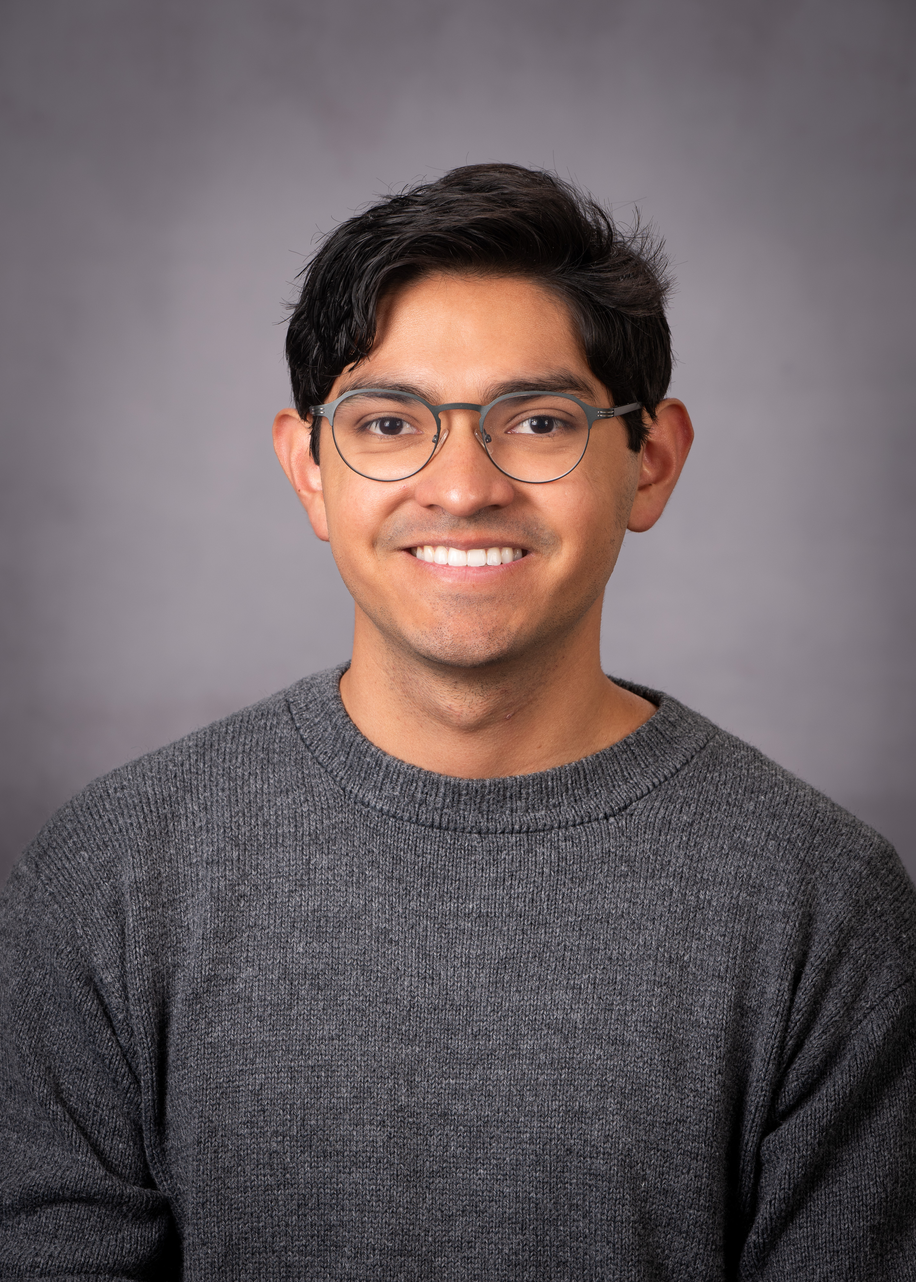
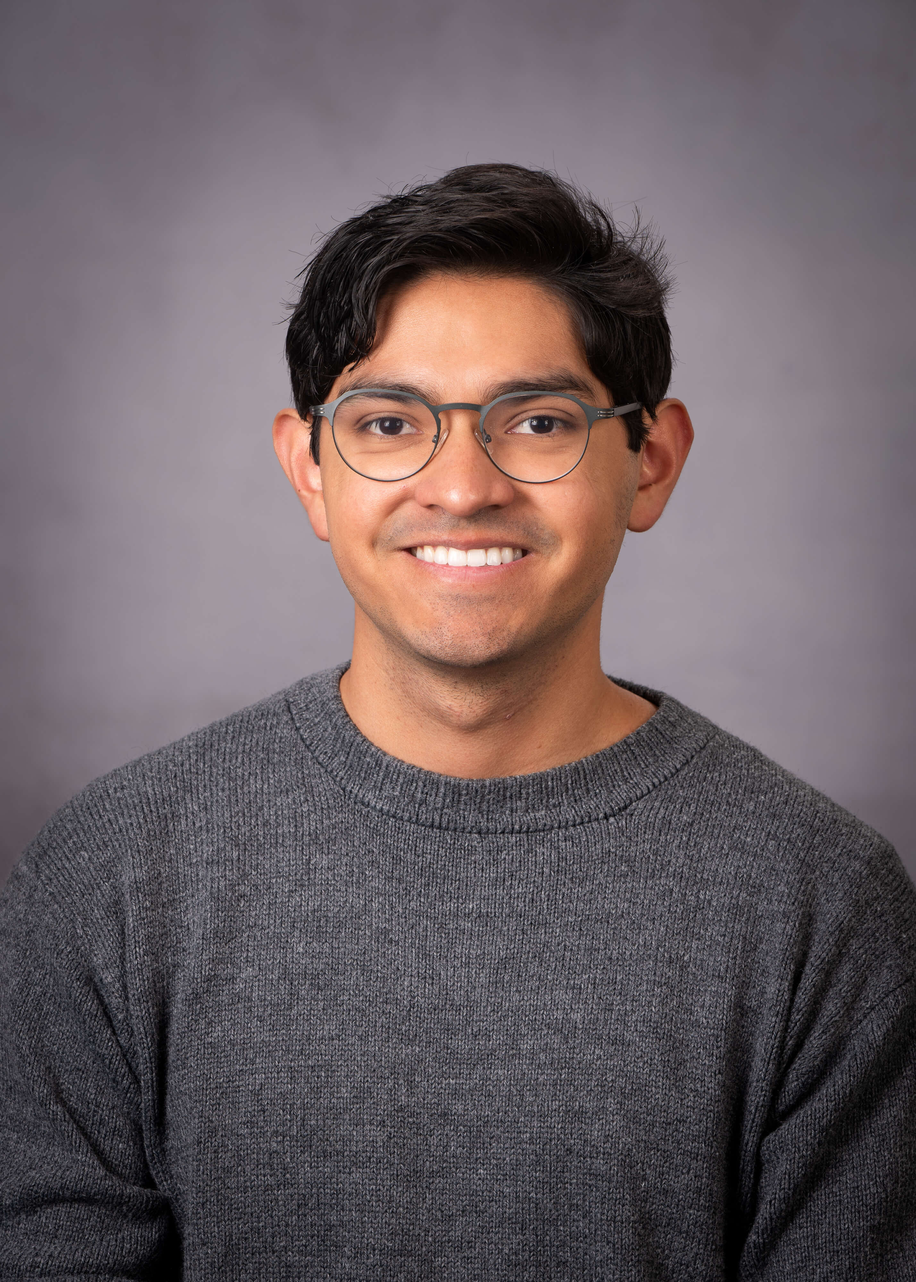
compressed imgs further

diff --git a/kemish-portfolio/src/assets/data.tsx b/kemish-portfolio/src/assets/data.tsx
@@ -153,7 +153,7 @@ export const myInfo = {
       technologies: ["React", "Tailwind CSS", "Typescript", "Framer Motion"],
       liveLink: "https://kemishgomez.netlify.app/",
       githubLink: "https://github.com/Kemishigp/Personal-Website",
-      image: "/projects/portfolio.webp",
+      image: "/tinified/portfolio.webp",
     },
     {
       title: "We Like Sushi",
@@ -161,7 +161,7 @@ export const myInfo = {
         "Blog / CMS to rate sushi restaurants with my girlfriend with Authentication. Currently in development.",
       technologies: ["Sveltekit", "Tailwind CSS", "ShadCN", "Supabase"],
       githubLink: "https://github.com/kemishigp/WeLikeSushi",
-      image: "/projects/we-like-sushi.webp",
+      image: "/tinified/we-like-sushi.webp",
     },
     {
       title: "Salon & Co.",
@@ -169,7 +169,7 @@ export const myInfo = {
       technologies: ["NextJs", "BetterAuth", "Prisma", "PostgreSQL", "Neon", "Rest API"],
       liveLink: "https://salonco.netlify.app/",
       githubLink: "https://github.com/Kemishigp/salon-website",
-      image: "/projects/salonco.webp",
+      image: "/tinified/salonco.webp",
     },
     {
       title: "Movie Browser App",
@@ -183,7 +183,7 @@ export const myInfo = {
       ],
       liveLink: "https://moviebrwsrapp.netlify.app/",
       githubLink: "https://github.com/Kemishigp/Movie-App",
-      image: "/projects/Project1.webp",
+      image: "/tinified/Project1.webp",
     },
   ],
   certifications: [
